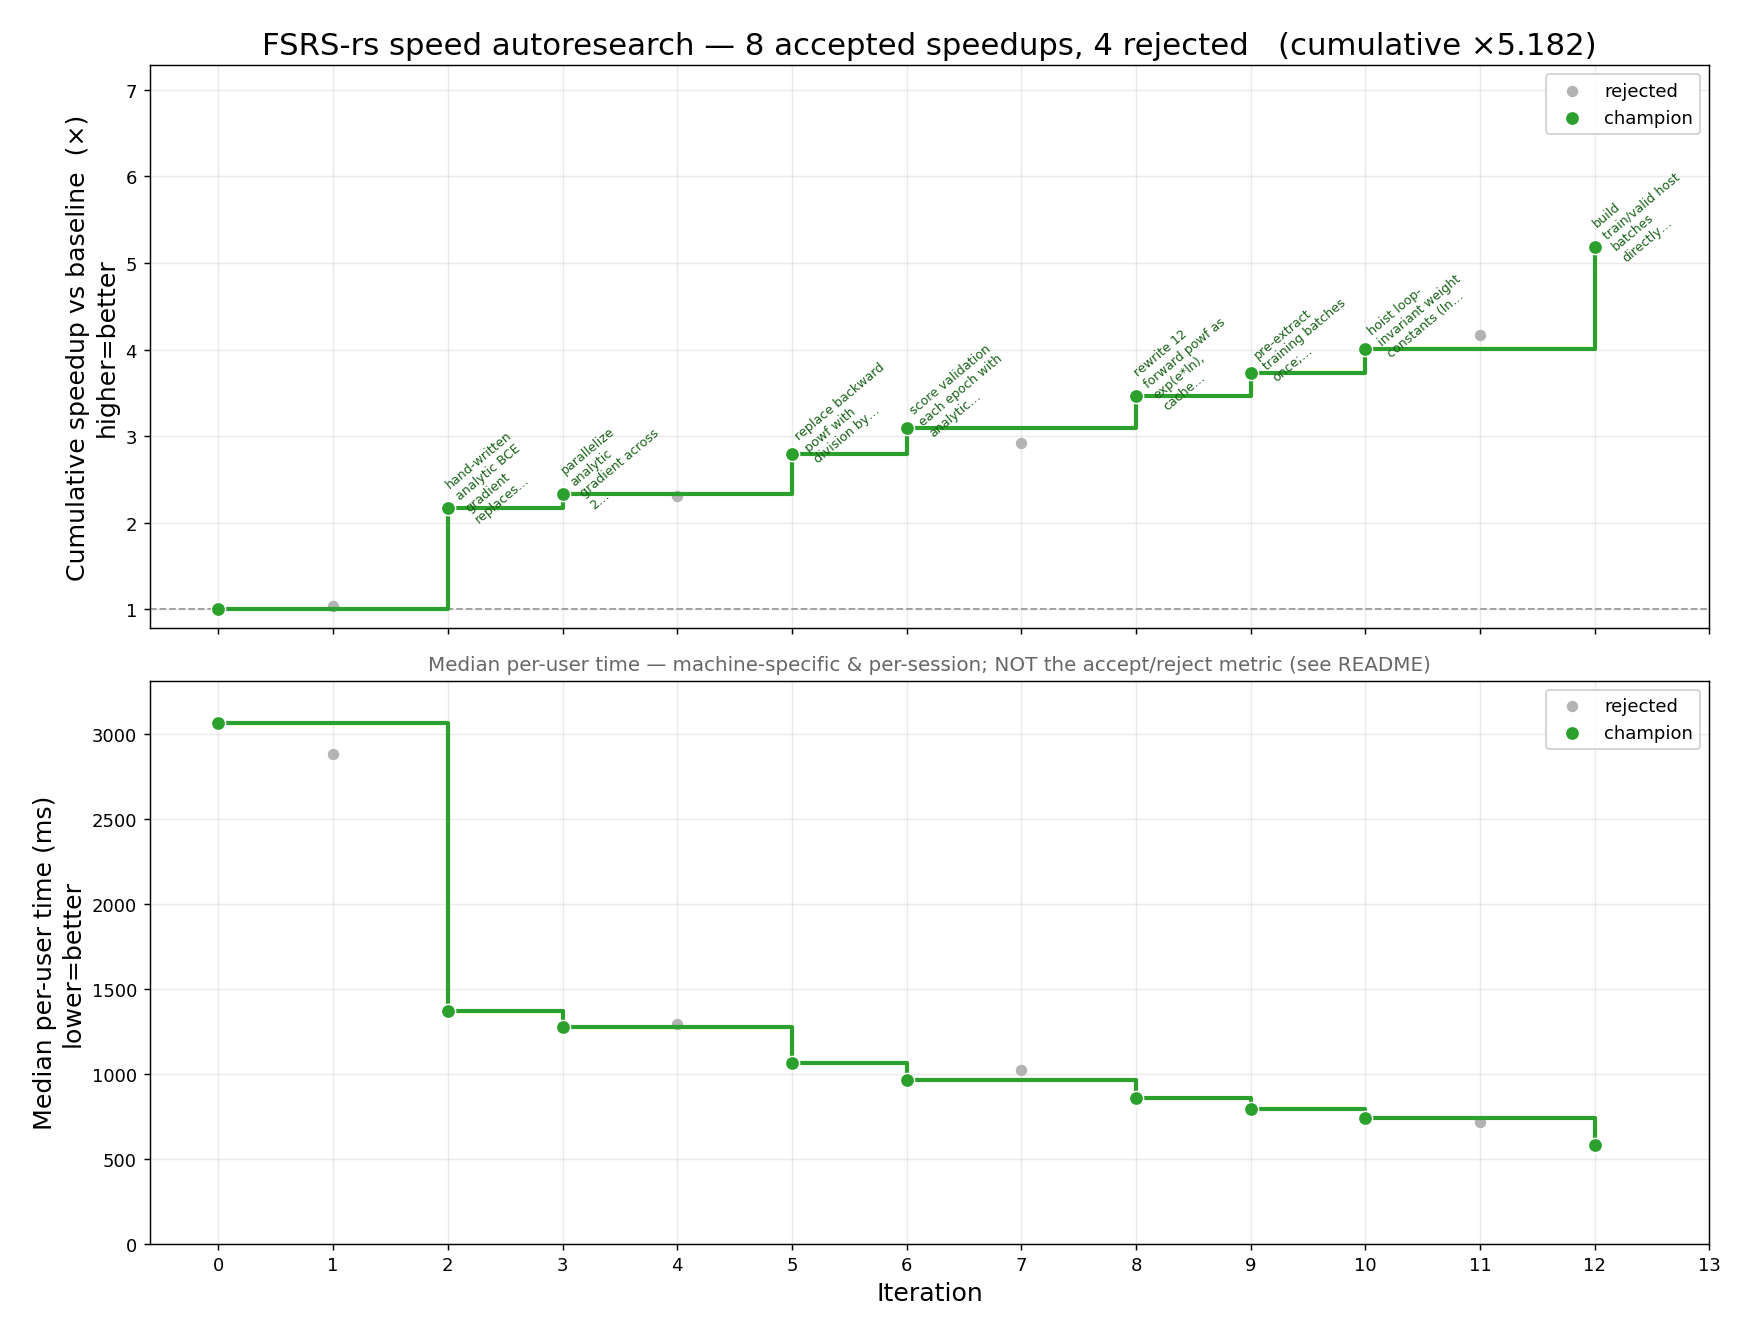
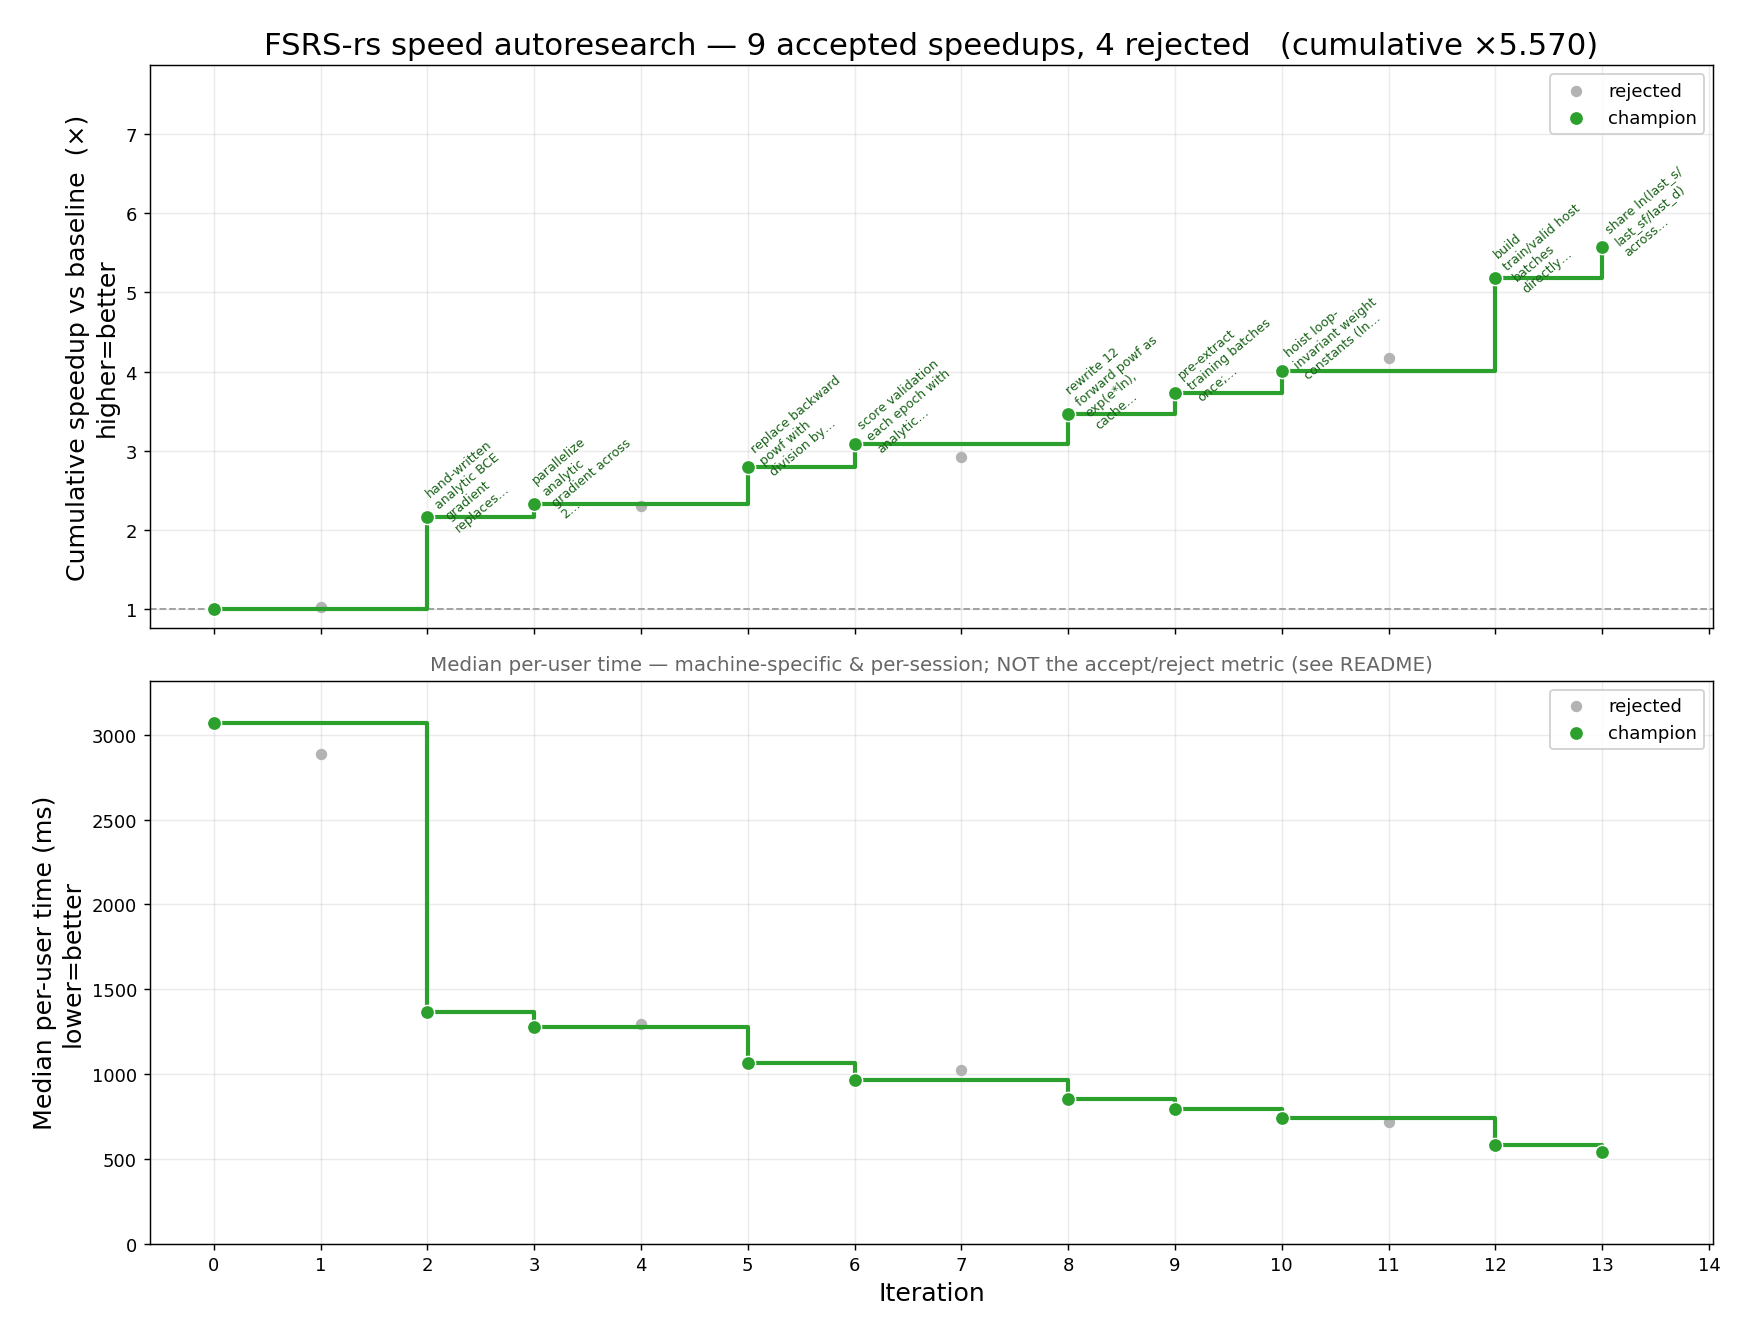
Speed up the forward ~7.5%: share state-variable lns across curve + stability (iter13)
The per-timestep forward recomputed the natural log of each state variable
redundantly across functions: curve_fwd did ln(last_s)+ln(last_sf); the slow
stability trace recomputed ln(last_s)+ln(last_d); the fast trace recomputed
ln(last_sf)+ln(last_d). So ln(last_s), ln(last_sf), ln(last_d) were each computed
twice per timestep. step_fwd now computes them once and passes them into curve_fwd
and both stab_fwd calls: 10 -> 7 ln per timestep.

Bit-for-bit (0/50 param diff, d_AVG LogLoss 0.000000); +7.5% median vs the iter12
champion; cumulative vs iter0 ~5.57x. Complexity 5515 -> 5522.

diff --git a/fsrs-rs/src/analytic.rs b/fsrs-rs/src/analytic.rs
@@ -87,12 +87,13 @@ struct CurveCache {
     ln_w28: f32,
 }
 
-fn curve_fwd(w: &[f32], t: f32, s: f32, sf: f32, d: f32, ln_w27: f32, ln_w28: f32) -> CurveCache {
+fn curve_fwd(
+    w: &[f32], t: f32, s: f32, sf: f32, d: f32, ln_w27: f32, ln_w28: f32, ln_s: f32, ln_sf: f32,
+) -> CurveCache {
     let t = t.max(0.0);
     let a = t / sf;
     let bv = t / s;
-    let ln_sf = sf.ln();
-    let p35 = (w[35] * ln_sf).exp(); // sf^w35
+    let p35 = (w[35] * ln_sf).exp(); // sf^w35 (ln_sf shared from step_fwd; iter13)
     let m1 = w[25] * p35;
     let dm1 = clamp(m1, 0.01, 0.95);
     let decay1 = -dm1;
@@ -114,8 +115,7 @@ fn curve_fwd(w: &[f32], t: f32, s: f32, sf: f32, d: f32, ln_w27: f32, ln_w28: f3
     let r2 = (decay2 * ln_b2).exp(); // b2^decay2
     let p31 = ((-w[31]) * ln_sf).exp(); // sf^-w31 (reuse ln_sf)
     let weight1 = w[29] * p31;
-    let ln_s = s.ln();
-    let s32 = (w[32] * ln_s).exp(); // s^w32
+    let s32 = (w[32] * ln_s).exp(); // s^w32 (ln_s shared from step_fwd; iter13)
     let ex33 = ((d - 5.0) * w[33]).exp();
     let weight2 = w[30] * s32 * ex33;
     let wsum = weight1 + weight2;
@@ -228,19 +228,20 @@ struct StabCache {
     ln_ls1: f32, // ln(last_s+1) for qbase = (last_s+1)^w[start+5]
 }
 
-fn stab_fwd(w: &[f32], last_s: f32, last_d: f32, r: f32, rating: f32, start: usize, aa: f32) -> StabCache {
+fn stab_fwd(
+    w: &[f32], last_s: f32, last_d: f32, r: f32, rating: f32, start: usize, aa: f32,
+    ln_ls: f32, ln_ld: f32,
+) -> StabCache {
     let hard = if rating == 2.0 { w[start + 7] } else { 1.0 };
     let easy = if rating == 4.0 { w[start + 8] } else { 1.0 };
-    let ln_ld = last_d.ln();
-    let pp = ((-w[start + 4]) * ln_ld).exp(); // last_d^-w[start+4]
+    let pp = ((-w[start + 4]) * ln_ld).exp(); // last_d^-w[start+4] (ln_ld shared; iter13)
     let ln_ls1 = (last_s + 1.0).ln();
     let qbase = (w[start + 5] * ln_ls1).exp(); // (last_s+1)^w[start+5]
     let rexp = ((1.0 - r) * w[start + 6]).exp();
     let nsf_fail = w[start + 3] * pp * (qbase - 1.0) * rexp;
     let pls = last_s.min(nsf_fail);
     let bb = 11.0 - last_d; // aa = exp(w[start]-1.5) hoisted (loop-invariant)
-    let ln_ls = last_s.ln();
-    let cc = ((-w[start + 1]) * ln_ls).exp(); // last_s^-w[start+1]
+    let cc = ((-w[start + 1]) * ln_ls).exp(); // last_s^-w[start+1] (ln_ls shared; iter13)
     let expr = ((1.0 - r) * w[start + 2]).exp();
     let sinc = aa * bb * cc * (expr - 1.0) * hard * easy + 1.0;
     let ls_sinc = last_s * sinc;
@@ -363,10 +364,18 @@ fn step_fwd(w: &[f32], delta_t: f32, rating: f32, state: (f32, f32, f32), nth0: 
     let last_d = clamp(d0, D_MIN, D_MAX);
     let last_sf = clamp(sf0, S_MIN, S_MAX);
     let dt = delta_t.max(0.0);
-    let curve = curve_fwd(w, dt, last_s, last_sf, last_d, wc.ln_w27, wc.ln_w28);
+    // Compute the per-state lns ONCE and share them across the curve + both stability traces:
+    // curve needs ln(last_s)+ln(last_sf); slow stab ln(last_s)+ln(last_d); fast stab
+    // ln(last_sf)+ln(last_d) — so 3 ln/timestep instead of 6. Bit-for-bit (same values). iter13.
+    let ln_last_s = last_s.ln();
+    let ln_last_sf = last_sf.ln();
+    let ln_last_d = last_d.ln();
+    let curve = curve_fwd(
+        w, dt, last_s, last_sf, last_d, wc.ln_w27, wc.ln_w28, ln_last_s, ln_last_sf,
+    );
     let r = curve.out;
-    let slow = stab_fwd(w, last_s, last_d, r, rating, 7, wc.aa7);
-    let fast = stab_fwd(w, last_sf, last_d, r, rating, 16, wc.aa16);
+    let slow = stab_fwd(w, last_s, last_d, r, rating, 7, wc.aa7, ln_last_s, ln_last_d);
+    let fast = stab_fwd(w, last_sf, last_d, r, rating, 16, wc.aa16, ln_last_sf, ln_last_d);
     let (nd1, nd_out_pre, nd_delta_d) = next_d_fwd(w, last_d, rating, wc.init);
     let (mut ns, mut nsf, mut nd) = (slow.out, fast.out, nd1);
     if nth0 && s0 == 0.0 {
@@ -460,7 +469,11 @@ pub(crate) fn batch_loss(
             state = step_fwd(w, t_hist[t * batch + c], r_hist[t * batch + c], state, t == 0, &wc).0;
         }
         let (s, d, sf) = state;
-        let r = clamp(curve_fwd(w, delta_ts[c], s, sf, d, wc.ln_w27, wc.ln_w28).out, MIN_R, MAX_R);
+        let r = clamp(
+            curve_fwd(w, delta_ts[c], s, sf, d, wc.ln_w27, wc.ln_w28, s.ln(), sf.ln()).out,
+            MIN_R,
+            MAX_R,
+        );
         loss += -(weights[c] as f64)
             * (labels[c] as f64 * (r as f64).ln() + (1.0 - labels[c] as f64) * (1.0 - r as f64).ln());
     }
@@ -486,7 +499,7 @@ fn loss_and_grad_range(
             caches.push(cache);
         }
         let (s, d, sf) = state;
-        let fc = curve_fwd(w, delta_ts[c], s, sf, d, wc.ln_w27, wc.ln_w28);
+        let fc = curve_fwd(w, delta_ts[c], s, sf, d, wc.ln_w27, wc.ln_w28, s.ln(), sf.ln());
         let r_raw = fc.out;
         let r = clamp(r_raw, MIN_R, MAX_R);
         let (lbl, wt) = (labels[c] as f64, weights[c] as f64);

diff --git a/result/history.md b/result/history.md
@@ -17,6 +17,7 @@ Accept metric: **median per-user speed_ratio ≥ 1.05** (constraint 12) AND **sp
 | 10 | 792 | 738 | 1.074 | 5628 | 5651 | 1.004 | 1.010 | ✓ | accepted | hoist loop-invariant weight constants (ln w27/w28, aa, exp 3w5) out of per-timestep loop |
 | 11 | 746 | 716 | 1.039 | 5651 | 5633 | 0.997 | 0.992 | ✓ | rejected | drop dead train/valid tensor datasets + remove dummy autodiff backward (bit-for-bit, -complexity) |
 | 12 | 738 | 580 | 1.292 | 5651 | 5515 | 0.976 | 0.941 | ✓ | accepted | build train/valid host batches directly (skip burn-tensor floor); remove dummy backward + dead dataloader code |
+| 13 | 577 | 538 | 1.075 | 5515 | 5522 | 1.001 | 1.003 | ✓ | accepted | share ln(last_s/last_sf/last_d) across curve + both stability traces; 3 fewer ln per timestep (bit-for-bit) |
 
-**Cumulative speed_ratio (product of accepted): ×5.182** — upward-biased (winner's curse); anchor periodically vs iter-0 baseline.
+**Cumulative speed_ratio (product of accepted): ×5.570** — upward-biased (winner's curse); anchor periodically vs iter-0 baseline.
 
